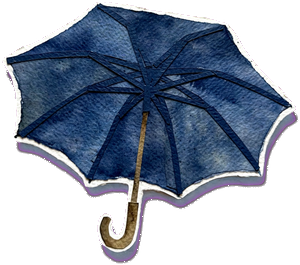
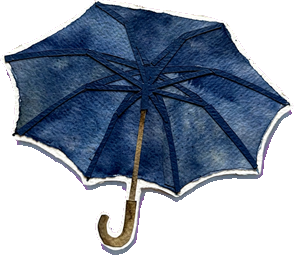
Ô cầm đúng tay, bỏ bóng tím; chọn mốc thời gian học, mỗi ngày giao đủ phần theo mốc; ghi đầu ra khoá học vào CLAUDE.md (#158)
- 6 hình ô: bỏ bóng đổ tím / xám ngoài viền giấy (ô đỏ có cả mảng bóng dưới móc); điểm cầm trên cán của từng hình (G.UMB_GRIP)
- Ô đặt điểm cầm đúng bàn tay của khung hình (G.HANDS): nhìn trước / ngang thì vác qua vai, tán sau đầu (thấy rõ mặt);
  nhìn sau lưng thì tán che trên đầu, móc trong tay. Bản 3D: ô là tấm giấy song song với tấm nhân vật nên luôn đúng trước / sau
- Mốc thời gian 3 / 6 / 9 / 12 / 18 / 24 tháng (mỗi mốc ghi số phút cần mỗi ngày, mốc quá gấp bị khoá); G.setPlan, G.planToday:
  phút hôm nay = giờ còn lại tới mục tiêu ÷ ngày học còn lại (chậm thì tăng, nhanh thì giảm); vòng Hôm nay và thanh trên theo mốc
- Sảnh: thẻ "Mục tiêu và mốc thời gian" thay thanh kéo phút; bảng Hôm nay có dòng tiến độ theo mốc
- CLAUDE.md: đầu ra (nói, đọc hiểu, nghe trôi chảy), tiến độ theo mốc, quy tắc làm việc; service worker v107

Claude-Session: https://claude.ai/code/session_01AHzGepJt93aQaJT6t7Vsc8

Changed region(s): [[0.0, 0.0, 1.0, 1.0], [0.1224, 0.2196, 0.2449, 0.302], [0.0918, 0.2196, 0.1224, 0.2471]]

diff --git a/game/js/placement.js b/game/js/placement.js
@@ -267,32 +267,70 @@ var G = window.G || (window.G = {});
   ];
   G.GOALS_EN = GOALS;
   G.goalOf = function () { var m = G.S.mucTieu; for (var i = 0; i < GOALS.length; i++) if (m && GOALS[i].id === m.id) return GOALS[i]; return null; };
-  /* dòng dự kiến cho mục tiêu: "Đi làm cần Tầng 4 · B1 – B2. 30 phút/ngày: khoảng tháng 9/2027" */
-  G.goalLine = function (mins, dpw) {
-    var g = G.goalOf(); if (!g || !G.etaPlan || !G.ROADMAP_EN) return '';
-    var rows = G.etaPlan(mins, dpw), r = rows[g.step]; if (!r) return '';
-    var st = G.ROADMAP_EN[g.step];
-    if (r.cum <= 0) return g.icon + ' ' + g.name + ': bạn đã đủ trình độ (' + st.name + '). Học tiếp để nói tự nhiên hơn!';
-    return g.icon + ' ' + g.name + ' cần ' + st.name + ' (' + st.cefr + '). Học ' + mins + ' phút/ngày, ' + dpw + ' ngày/tuần: dự kiến đạt khoảng ' + r.month + ' (sau ' + r.span + ').';
+  /* ---------- mốc thời gian: người học chọn muốn đạt mục tiêu trong bao lâu; app tính mỗi ngày cần học bao nhiêu
+     (giờ còn lại tới mục tiêu ÷ số ngày học còn lại, tính lại mỗi ngày: học chậm thì phần mỗi ngày tăng, nhanh thì giảm) ---------- */
+  var MOCS = [3, 6, 9, 12, 18, 24];
+  function pad2(n) { return (n < 10 ? '0' : '') + n; }
+  function fmtDay(s) { var a = s.split('-'); return +a[2] + '/' + +a[1] + '/' + a[0]; }
+  function stepOf() { var g = G.goalOf(); return g ? g.step : 4; }   // chưa chọn mục tiêu: tới Tốt nghiệp ConnectLife (nói, đọc hiểu, nghe trôi chảy)
+  function hoursTo(step, dpw) { if (!G.etaPlan) return 0; var r = G.etaPlan(60, dpw)[step]; return r ? r.cum : 0; }
+  function ceil5(x) { return Math.ceil(x / 5) * 5; }
+  G.planNeed = function (months, step, dpw) { var h = hoursTo(step, dpw); return h <= 0 ? 0 : ceil5(h * 60 / (months * 30.4 * dpw / 7)); };
+  G.setPlan = function (months) {
+    var cd = G.S.caiDat = G.S.caiDat || {}, dpw = cd.ngayTuan || 6, step = stepOf(), need = Math.max(10, G.planNeed(months, step, dpw));
+    var e = G.vnParts(Date.now() + months * 30.4 * 86400000);
+    G.S.mocHoc = { thang: months, buoc: step, tu: G.vnDay(), den: e.y + '-' + pad2(e.m) + '-' + pad2(e.d), phut0: need };
+    cd.phutNgay = need; ptAt = 0; G.save(); if (G.updateHud) G.updateHud();
   };
-  /* thẻ chọn mục tiêu + phút mỗi ngày; số phút cũng là mục tiêu mỗi ngày trên vòng ở thanh trên */
+  /* tiến độ hôm nay theo mốc: { phut cần học hôm nay, den, ngay còn lại, xong, het (quá mốc), cham, nhanh } */
+  var ptCache = null, ptAt = 0;
+  G.planToday = function () {
+    var m = G.S.mocHoc; if (!m || !G.etaPlan) return null;
+    if (ptCache && Date.now() - ptAt < 60000) return ptCache;
+    var cd = G.S.caiDat || {}, dpw = cd.ngayTuan || 6, end = Date.parse(m.den + 'T23:59:59+07:00');
+    var daysLeft = (end - Date.now()) / 86400000, h = hoursTo(m.buoc, dpw);
+    var o = { thang: m.thang, den: m.den, ngay: Math.max(0, Math.ceil(daysLeft)), xong: h <= 0, het: daysLeft <= 0, phut0: m.phut0 };
+    o.phut = o.xong || o.het ? (cd.phutNgay || m.phut0) : Math.min(240, Math.max(10, ceil5(h * 60 / Math.max(1, daysLeft * dpw / 7))));
+    o.cham = !o.xong && !o.het && o.phut > m.phut0 * 1.1; o.nhanh = !o.xong && !o.het && o.phut < m.phut0 * 0.9;
+    ptCache = o; ptAt = Date.now(); return o;
+  };
+  /* một dòng nói rõ kế hoạch: đạt gì, trước ngày nào, mỗi ngày bao lâu */
+  G.planLine = function () {
+    var m = G.S.mocHoc, g = G.goalOf(), cd = G.S.caiDat || {}, dpw = cd.ngayTuan || 6;
+    if (!m) return 'Chọn mốc thời gian: app tính mỗi ngày cần học bao nhiêu và giao đủ phần đó mỗi ngày.';
+    var pt = G.planToday(), st = G.ROADMAP_EN[m.buoc] || {}, who = g ? g.icon + ' ' + g.name + ': ' : '🎯 ';
+    if (pt.xong) return '🎉 Bạn đã đạt ' + st.name + '! Chọn mục tiêu cao hơn để học tiếp.';
+    if (pt.het) return 'Mốc ' + fmtDay(m.den) + ' đã qua mà chưa đạt ' + st.name + '. Chọn mốc mới, app tính lại phần học mỗi ngày.';
+    return who + 'đạt ' + st.name + ' (' + st.cefr + ') trước ' + fmtDay(m.den) + ' (mốc ' + m.thang + ' tháng). Mỗi ngày học khoảng ' + pt.phut + ' phút, ' + dpw + ' ngày/tuần.' +
+      (pt.cham ? ' Đang chậm so với mốc nên phần học mỗi ngày đã tăng để kịp.' : pt.nhanh ? ' Bạn đang nhanh hơn tiến độ 👍' : '');
+  };
+  G.goalLine = function () { return G.planLine(); };
+  /* thẻ chọn mục tiêu + mốc thời gian (kết quả đầu vào, Sảnh); onChange khi đổi */
   G.goalCard = function (onChange) {
-    var cd = G.S.caiDat = G.S.caiDat || {}, mins = cd.phutNgay || 30, dpw = cd.ngayTuan || 6;
+    var cd = G.S.caiDat = G.S.caiDat || {};
     var line = G.el('div.gl-line'), gRow = G.el('div.gl-chips'), mRow = G.el('div.gl-chips');
     function draw() {
-      var g = G.goalOf();
+      var g = G.goalOf(), m = G.S.mocHoc, step = stepOf(), dpw = cd.ngayTuan || 6;
       gRow.innerHTML = ''; mRow.innerHTML = '';
       GOALS.forEach(function (x) {
-        gRow.appendChild(G.el('button.gl-chip' + (g && g.id === x.id ? '.on' : ''), { onclick: function () { G.S.mucTieu = { id: x.id, luc: G.vnNow() }; G.save(); draw(); if (onChange) onChange(); } }, x.icon + ' ' + x.name));
+        gRow.appendChild(G.el('button.gl-chip' + (g && g.id === x.id ? '.on' : ''), { onclick: function () {
+          G.S.mucTieu = { id: x.id, luc: G.vnNow() }; if (G.S.mocHoc) G.setPlan(G.S.mocHoc.thang); G.save(); draw(); if (onChange) onChange();
+        } }, x.icon + ' ' + x.name));
       });
-      [10, 15, 20, 30, 45, 60, 90].forEach(function (m) {
-        mRow.appendChild(G.el('button.gl-chip' + (m === mins ? '.on' : ''), { onclick: function () { mins = m; cd.phutNgay = m; cd.ngayTuan = dpw; G.save(); if (G.updateHud) G.updateHud(); draw(); if (onChange) onChange(); } }, m + ' phút'));
+      MOCS.forEach(function (mo) {
+        var need = G.planNeed(mo, step, dpw), hard = need > 240;
+        mRow.appendChild(G.el('button.gl-chip.gl-moc' + (m && m.thang === mo ? '.on' : '') + (hard ? '.hard' : ''), { onclick: function () {
+          if (hard) { G.toast('Mốc ' + mo + ' tháng cần hơn 4 giờ mỗi ngày, quá gấp. Chọn mốc dài hơn nhé.'); return; }
+          G.setPlan(mo); draw(); if (onChange) onChange();
+        } }, G.el('b', mo + ' tháng'), G.el('span', need <= 0 ? 'đã đạt' : hard ? 'quá gấp' : '~' + Math.max(10, need) + ' phút/ngày')));
       });
-      line.textContent = g ? G.goalLine(mins, dpw) : 'Chọn mục tiêu để xem bao lâu nữa bạn đạt được.';
+      line.textContent = G.planLine();
     }
     draw();
-    return G.el('div.gl-card', G.el('b.gl-h', '🎯 Bạn học tiếng Anh để làm gì?'), gRow,
-      G.el('b.gl-h', '⏱ Mỗi ngày học được bao lâu?'), mRow, line);
+    var el = G.el('div.gl-card', G.el('b.gl-h', '🎯 Bạn học tiếng Anh để làm gì?'), gRow,
+      G.el('b.gl-h', '📅 Muốn đạt mục tiêu trong bao lâu?'), mRow, line);
+    el.redraw = draw;
+    return el;
   };
 
   /* ---------- kết quả ---------- */

diff --git a/game/js/lobby.js b/game/js/lobby.js
@@ -43,32 +43,29 @@ var G = window.G || (window.G = {});
     return remainHours().map(function (r) { var d = r.cum / perWeek * 7; return { name: r.st.name, left: r.left, cum: r.cum, month: monthOf(d), span: span(d) }; });
   };
   function planCard() {
-    var cd = G.S.caiDat = G.S.caiDat || {}, mins = cd.phutNgay || 40, dpw = cd.ngayTuan || 6;
-    var out = G.el('div.plan-out'), minsL = G.el('b'), dpwL = G.el('b');
+    var cd = G.S.caiDat = G.S.caiDat || {}, dpw = cd.ngayTuan || 6;
+    function mins() { var pt = G.planToday && G.planToday(); return pt ? pt.phut : (cd.phutNgay || 40); }
+    var out = G.el('div.plan-out'), dpwL = G.el('b'), gc = G.goalCard ? G.goalCard(function () { draw(); }) : null;
     function draw() {
-      minsL.textContent = mins + ' phút / ngày'; dpwL.textContent = dpw + ' ngày / tuần';
-      var perWeek = mins * dpw / 60, rows = remainHours(), last = rows[rows.length - 1];
+      var mn = mins();
+      dpwL.textContent = dpw + ' ngày / tuần';
+      var perWeek = mn * dpw / 60, rows = remainHours(), last = rows[rows.length - 1];
       rows.forEach(function (r) {
         var el = document.getElementById('eta-' + (r.st.final ? 'final' : r.st.floor)); if (!el) return;
         el.textContent = r.left <= 0 ? '' : '⏱ Dự kiến ' + monthOf(r.cum / perWeek * 7) + ' (còn khoảng ' + Math.round(r.left) + ' giờ)';
       });
       var days = last.cum / perWeek * 7;
       out.innerHTML = '';
-      out.appendChild(G.el('div.plan-big', G.el('span', '🎓 Tốt nghiệp ConnectLife khoảng'), G.el('b', monthOf(days)), G.el('span.small', 'sau khoảng ' + span(days) + ' · còn ' + Math.round(last.cum) + ' giờ học · ' + (Math.round(perWeek * 10) / 10 + '').replace('.', ',') + ' giờ mỗi tuần')));
-      if (G.goalOf && G.goalOf()) out.appendChild(G.el('div.plan-goal', G.goalLine(mins, dpw)));
-      var faster = Math.min(180, mins + 20);
-      if (mins < 180) out.appendChild(G.el('div.small.faint', 'Nếu học ' + faster + ' phút mỗi ngày: khoảng ' + span(last.cum / (faster * dpw / 60) * 7) + '.'));
-    }
-    function slider(min, max, step, val, on) {
-      return G.el('input.plan-range', { type: 'range', min: min, max: max, step: step, value: val, oninput: function (e) { on(+e.target.value); draw(); },
-        onchange: function () { cd.phutNgay = mins; cd.ngayTuan = dpw; G.save(); if (G.updateHud) G.updateHud(); } });
+      out.appendChild(G.el('div.plan-big', G.el('span', '🎓 Tốt nghiệp ConnectLife khoảng'), G.el('b', monthOf(days)), G.el('span.small', 'học ' + mn + ' phút/ngày · còn ' + Math.round(last.cum) + ' giờ học · ' + (Math.round(perWeek * 10) / 10 + '').replace('.', ',') + ' giờ / tuần')));
     }
     var card = G.el('div.plan',
-      G.el('b.plan-h', '⏱ Bạn học bao lâu mỗi ngày?'),
-      G.el('div.plan-row', G.el('span', 'Thời gian'), slider(10, 180, 5, mins, function (v) { mins = v; }), minsL),
-      G.el('div.plan-row', G.el('span', 'Số ngày'), slider(3, 7, 1, dpw, function (v) { dpw = v; }), dpwL),
+      G.el('b.plan-h', '📅 Mục tiêu và mốc thời gian'),
+      gc,
+      G.el('div.plan-row', G.el('span', 'Số ngày'), G.el('input.plan-range', { type: 'range', min: 3, max: 7, step: 1, value: dpw,
+        oninput: function (e) { dpw = +e.target.value; dpwL.textContent = dpw + ' ngày / tuần'; },
+        onchange: function () { cd.ngayTuan = dpw; if (G.S.mocHoc) G.setPlan(G.S.mocHoc.thang); else G.save(); if (gc) gc.redraw(); draw(); } }), dpwL),
       out,
-      G.el('div.small.faint', 'Ước chừng theo số giờ cần để đạt từng cấp (gồm học bài, ôn tập và luyện nói ngoài phố), tính từ chỗ bạn đang học. Số phút bạn chọn cũng là mục tiêu mỗi ngày trên vòng tiến độ. Học đều mỗi ngày hiệu quả hơn học dồn.'));
+      G.el('div.small.faint', 'Mỗi ngày app giao đủ phần cần học để kịp mốc bạn chọn (vòng Hôm nay ở góc trên). Học chậm thì phần mỗi ngày tự tăng, học nhanh thì giảm. Tính theo số giờ cần cho từng cấp (học bài, ôn tập, luyện nói ngoài phố), từ chỗ bạn đang học.'));
     draw(); setTimeout(draw, 0);   // vẽ ngay phần tổng; dòng ước tính từng tầng điền sau khi danh sách tầng đã có
     return card;
   }

diff --git a/game/js/world3d.js b/game/js/world3d.js
@@ -47,6 +47,7 @@ var G = window.G || (window.G = {});
   }
   function ready(t) { return !!(t && t.image && t.image.width); }
   /* tấm giấy: sáng tối theo nắng nhưng luôn giữ một nền sáng (emissive) để hình không bị tối khi nắng chiếu xiên */
+  var PLANE_C = null;   // mặt phẳng 1×1 tâm ở giữa (ô cầm tay)
   function mat(n) { return MATS[n] || (MATS[n] = new THREE.MeshLambertMaterial({ map: tex(n), emissive: 0x5a5a5a, emissiveMap: tex(n), alphaTest: 0.5, side: THREE.DoubleSide })); }
   function dmat(n) { return DMATS[n] || (DMATS[n] = new THREE.MeshDepthMaterial({ depthPacking: THREE.RGBADepthPacking, map: tex(n), alphaTest: 0.5 })); }
   function setMap(m, n) {   // đổi hình của một tấm (cả lớp sáng nền), chỉ khi hình mới đã tải xong
@@ -112,7 +113,7 @@ var G = window.G || (window.G = {});
   }
   function drawWalker(w) {
     var fr = frameOf(w), m = w.g.userData.mesh;
-    setMap(m, fr.n);
+    setMap(m, fr.n); w.fr = fr;
     w.g.scale.x = (fr.flip ? -1 : 1) * w.S * U;
     w.g.position.set(w.x, fr.lift * w.S * U, w.z); w.blob.position.set(w.x, 0.012, w.z);
     if (w.um) placeUmbrella(w);
@@ -143,14 +144,31 @@ var G = window.G || (window.G = {});
     }));
   }
   function addUmbrella(w, i) {
-    var sp = new THREE.Sprite(new THREE.SpriteMaterial({ map: umbrellaTex(i), transparent: true, alphaTest: 0.3 }));
-    var k = w.S * U * 0.82; sp.scale.set(k, k, 1); sp.visible = false; SC.add(sp); w.um = sp;
+    if (!PLANE_C) PLANE_C = new THREE.PlaneGeometry(1, 1);
+    // tấm giấy song song với tấm nhân vật (cùng độ nghiêng), nằm ngay sau (nhìn trước / ngang) hoặc ngay trước (nhìn sau lưng)
+    var t = umbrellaTex(i), m = new THREE.Mesh(PLANE_C, new THREE.MeshLambertMaterial({ map: t, emissive: 0x5a5a5a, emissiveMap: t, alphaTest: 0.4, side: THREE.DoubleSide }));
+    var g = new THREE.Group(); g.add(m); g.rotation.x = -LEAN; g.visible = false; SC.add(g);
+    w.um = g; w.umMesh = m; w.umName = 'umbrella_' + (i % 6 + 1) + '.png';
   }
+  /* ô trong tay: điểm cầm trên cán (G.UMB_GRIP) đặt vào bàn tay của khung hình đang vẽ (G.HANDS), cán ngả qua vai, tán nghiêng về phía đầu.
+     Nhìn trước / ngang: móc khuất sau người nên nâng cán lên vai cho tán che trên đầu; nhìn sau lưng: móc đúng trong bàn tay. */
   function placeUmbrella(w) {
-    var on = wxNow.rain > 0.25 && w.g.visible, h = w.S * U * 0.5, k = w.S * U * 0.95;
+    var on = wxNow.rain > 0.25 && w.g.visible;
     w.um.visible = on; if (!on) return;
-    var sway = w.moving ? Math.sin(w.t * 14) * 0.03 : 0;
-    w.um.position.set(w.x + sway + (w.dir === 'left' ? -0.06 : w.dir === 'right' ? 0.06 : 0.1), h * Math.cos(LEAN) + k * 0.5, w.z - h * Math.sin(LEAN) + 0.02);
+    var fr = w.fr, d = w.dir === 'right' ? 'left' : w.dir, n, back = w.dir === 'up';
+    if (fr) n = fr.n.replace(/_w[12]\.png$/, '.png');
+    else if (w.base === 'custom' && G.S.avatar) n = 'body_' + G.S.avatar.ao + '_' + d + '.png';
+    else n = (w.base || 'kai') + '_' + d + '.png';
+    var hd = G.HANDS && G.HANDS[n], hx = hd ? hd[0] / 100 : 0.7, hy = hd ? hd[1] / 100 : 0.72;
+    if (fr ? fr.flip : w.dir === 'right') hx = 1 - hx;
+    var S = w.S * U, lift = fr ? fr.lift * S : 0, sway = w.moving ? Math.sin(w.t * 14) * 0.02 : 0;
+    var lx = (hx - 0.5) * S + sway, ly = ((w.foot || 0.957) - hy) * S + lift + (back ? 0 : S * 0.2);
+    var k = S * 0.9, gp = (G.UMB_GRIP && G.UMB_GRIP[w.umName]) || [0.5, 0.86];
+    var th = (lx > 0.01 ? 1 : lx < -0.01 ? -1 : 0) * 0.32;
+    var ox = (0.5 - gp[0]) * k, oy = (gp[1] - 0.5) * k, rx = ox * Math.cos(th) - oy * Math.sin(th), ry = ox * Math.sin(th) + oy * Math.cos(th);
+    w.um.position.set(w.x, 0, w.z);
+    w.umMesh.position.set(lx + rx, ly + ry, back ? 0.035 : -0.035);
+    w.umMesh.rotation.z = th; w.umMesh.scale.set(k, k, 1);
   }
 
   /* ---------- dựng thành phố (một lần) ---------- */

diff --git a/game/js/daily.js b/game/js/daily.js
@@ -5,8 +5,13 @@
 var G = window.G || (window.G = {});
 
 (function () {
-  var GOAL_MIN = 120;   // mặc định; người học chọn ở thanh kéo Lộ trình (G.S.caiDat.phutNgay)
-  function goalMin() { return (G.S && G.S.caiDat && G.S.caiDat.phutNgay) || GOAL_MIN; }
+  var GOAL_MIN = 120;   // mặc định khi chưa chọn mốc thời gian (Sảnh → Mục tiêu và mốc thời gian)
+  /* phút cần học hôm nay: theo mốc thời gian người học chọn (G.planToday), chưa chọn mốc thì theo số phút đã đặt */
+  function goalMin() {
+    var pt = G.planToday && G.planToday();
+    if (pt && !pt.xong && !pt.het) return pt.phut;
+    return (G.S && G.S.caiDat && G.S.caiDat.phutNgay) || GOAL_MIN;
+  }
   var TASKS = [
     { id: 'bai', icon: '🏫', name: 'Học bài ở trường', hint: 'Học, luyện hoặc kiểm tra một phòng', min: 45 },
     { id: 'doc', icon: '📖', name: 'Đọc 1 chương truyện', hint: 'Về nhà, mở góc đọc truyện', min: 25 },
@@ -78,6 +83,8 @@ var G = window.G || (window.G = {});
     ring.style.setProperty('--p', p.pct);
     body.appendChild(G.el('div.td-head', ring,
       G.el('div', G.el('b', p.mins + ' / ' + p.goal + ' phút'), G.el('div.small.faint', p.done + '/' + p.all + ' việc · chuỗi ' + G.S.chuoi.hienTai + ' ngày'))));
+    if (G.planLine) body.appendChild(G.el('div.td-plan', G.el('b', '📅 Tiến độ theo mốc'), G.el('div.small', G.planLine()),
+      G.S.mocHoc ? null : G.el('button.btn.sm', { onclick: function () { G.goLobby && G.goLobby(); } }, 'Chọn mốc ở Sảnh')));
     if (G.rankCard) body.appendChild(G.rankCard());
     body.appendChild(G.el('div.td-list', TASKS.map(function (t) {
       var ok = !!d.viec[t.id];
@@ -113,7 +120,7 @@ var G = window.G || (window.G = {});
     }
     drawMic();
     body.appendChild(micBox);
-    body.appendChild(G.el('p.small.faint', 'Làm đủ 4 việc và học đủ 2 giờ là tròn vòng hôm nay. Thanh 📍 Việc tiếp theo luôn chỉ chỗ cần đến.'));
+    body.appendChild(G.el('p.small.faint', 'Làm đủ 4 việc và học đủ ' + p.goal + ' phút là tròn vòng hôm nay, đúng tiến độ theo mốc. Thanh 📍 Việc tiếp theo luôn chỉ chỗ cần đến.'));
   };
 
   function weekLine() {

diff --git a/game/js/engine.js b/game/js/engine.js
@@ -1053,7 +1053,7 @@ var G = window.G || (window.G = {});
     var cx = X + S / 2;
     // nhìn trước / sau: cán dựng sát cạnh đầu, hơi ngả ra ngoài; nhìn ngang: ngả ra sau lưng như tựa lên vai
     var ux = side ? cx + (flip ? -1 : 1) * S * 0.12 : hx + (hx >= cx ? 1 : -1) * S * 0.04;
-    return { hx: hx, hy: hy, ux: ux, uy: top - S * 0.025, S: S, col: h[2] };
+    return { hx: hx, hy: hy, ux: ux, uy: top - S * 0.025, S: S, col: h[2], back: /_up(_w\d)?\.png$/.test(img) };
   }
   /* ô của nhân vật ghép (thân body_<áo>_<hướng>.png): x, footY, h như G.drawAvatar; phase: nhịp bước (null = đứng) */
   function avatarHold(av, x, footY, h, dir, phase) {
@@ -1063,9 +1063,12 @@ var G = window.G || (window.G = {});
   function umbrella(u, ci, sway, part, fist) {
     var S = u.S, R = S * 0.38, lw = Math.max(2, S * 0.024), un = 'umbrella_' + (ci % 6 + 1) + '.png';
     if (G.ASSET_REV && G.ASSET_REV[un]) {   // ô vẽ giấy (đặt hình): cán ô ở bàn tay, tán che trên đầu
-      if (part !== 'top' || !G.asset(un).ok) return;
+      // vác ô qua vai: nhìn trước / nhìn ngang thì tán nằm sau đầu (vẽ trước thân), nhìn sau lưng thì tán ở phía người xem (vẽ sau thân)
+      if ((part === 'top') !== !!u.back || !G.asset(un).ok) return;
       var im = G.asset(un).img, ih = S * 0.92, iw = ih * im.width / im.height, ag = Math.atan2(u.ux - u.hx, -(u.uy - u.hy)) * 0.5 + (sway || 0);
-      ctx.save(); ctx.translate(u.hx, u.hy + S * 0.04); ctx.rotate(ag); ctx.drawImage(im, -iw * 0.55, -ih, iw, ih); ctx.restore();
+      var gp = (G.UMB_GRIP && G.UMB_GRIP[un]) || [0.5, 0.86];   // điểm cầm trên cán (ngay trên móc) đặt đúng vào bàn tay
+      // nhìn trước / ngang: móc khuất sau người, tay như nâng cán lên vai (tán cao hơn, che trên đầu); nhìn sau lưng: móc đúng trong bàn tay
+      ctx.save(); ctx.translate(u.hx, u.hy - (u.back ? 0 : S * 0.2)); ctx.rotate(ag); ctx.drawImage(im, -iw * gp[0], -ih * gp[1], iw, ih); ctx.restore();
       return;
     }
     var vx = u.ux - u.hx, vy = u.uy - u.hy, L = Math.sqrt(vx * vx + vy * vy), ang = Math.atan2(vx, -vy) + (sway || 0);

diff --git a/game/sw.js b/game/sw.js
@@ -1,7 +1,7 @@
 /* Chạy offline: giữ toàn bộ code game, dữ liệu và mọi hình trong assets/.
    Hình tải qua assets/<tên>?v=<mã nội dung> (data/asset_rev.js): mỗi lần cập nhật app chỉ tải hình mới hoặc hình đã thay,
    hình không đổi chép lại từ bản trong máy. Tệp giọng đọc được giữ lại khi đã nghe một lần. */
-var VERSION = 'thegioi-v106';
+var VERSION = 'thegioi-v107';
 // giọng đọc: tên tệp đặt theo nội dung câu nên không bao giờ đổi, giữ riêng một kho để cập nhật app không phải tải lại
 var AUDIO = 'connectlife-audio-v2';
 var CORE = [

diff --git a/game/data/asset_rev.js b/game/data/asset_rev.js
@@ -412,12 +412,12 @@ G.ASSET_REV = {"badge_1.webp":"4cd4eec0",
 "student_tom_hand.png":"062c31b6",
 "student_tom_sit.png":"dfb354fb",
 "sun_paper.png":"e1857d6c",
-"umbrella_1.png":"cae53633",
-"umbrella_2.png":"31532d16",
-"umbrella_3.png":"e65f5c5e",
-"umbrella_4.png":"d644a3cd",
-"umbrella_5.png":"755902d2",
-"umbrella_6.png":"cc172dd6",
+"umbrella_1.png":"ea551fc5",
+"umbrella_2.png":"50b49f75",
+"umbrella_3.png":"76b1e495",
+"umbrella_4.png":"7b603b46",
+"umbrella_5.png":"44ade338",
+"umbrella_6.png":"66ed550e",
 "vehicle_bus.png":"97defac2",
 "vehicle_metro.png":"8578ec08",
 "vehicle_metro_open.png":"4bc40774",

diff --git a/game/css/game.css b/game/css/game.css
@@ -831,3 +831,7 @@ body { background: #f4e9dc url(../assets/paper_tile.webp) repeat; background-siz
   .pr-card .mk-mic-img { width: 52px; height: 52px; }
   .pr-two .opt { min-height: 58px; }
 }
+.gl-moc { display: flex; flex-direction: column; align-items: center; gap: 0; border-radius: 14px; padding: 6px 12px; line-height: 1.2; }
+.gl-moc span { font-size: 12px; font-weight: 600; opacity: .8; }
+.gl-moc.hard { opacity: .45; }
+.td-plan { background: #fff6e6; border: 1.5px solid #f1dfb8; border-radius: 14px; padding: 10px 12px; display: flex; flex-direction: column; gap: 4px; margin: 8px 0; }

diff --git a/game/data/hands.js b/game/data/hands.js
@@ -62,3 +62,5 @@ G.HANDS = {
     'walk_carlos_down.png': [60, 62, '#f6dcc8', 4.9],
     'walk_nora_down.png': [62, 64, '#f6dcc8', 4.9]
 };
+/* điểm cầm trên cán của từng hình ô (tỉ lệ x, y trong hình, ngay trên móc): đặt điểm này vào bàn tay */
+G.UMB_GRIP = {"umbrella_1.png": [0.618, 0.854], "umbrella_2.png": [0.5, 0.85], "umbrella_3.png": [0.567, 0.856], "umbrella_4.png": [0.43, 0.833], "umbrella_5.png": [0.373, 0.848], "umbrella_6.png": [0.44, 0.839]};

diff --git a/CLAUDE.md b/CLAUDE.md
@@ -1,0 +1,22 @@
+# ATLAS-Hoc · ConnectLife
+
+Game học ngoại ngữ ConnectLife (thư mục `game/`) và app ATLAS gốc (thư mục gốc). Người phụ trách: anh Han. Trả lời bằng tiếng Việt, ngắn gọn, thực tế.
+
+## Đầu ra của khoá học (luôn bám theo)
+
+Học viên học xong phải **nói được, đọc hiểu và nghe trôi chảy tiếng Anh**. Mọi tính năng, bài học, trò chơi phải phục vụ ba kỹ năng này; cái gì không giúp nói, đọc hiểu hoặc nghe thì không ưu tiên.
+
+## Tiến độ học
+
+- Người học tự chọn **mốc thời gian** (3 / 6 / 9 / 12 / 18 / 24 tháng) để đạt mục tiêu (Sảnh → Mục tiêu và mốc thời gian, hoặc màn kết quả đầu vào).
+- App tính mỗi ngày cần học bao nhiêu (giờ còn lại tới mục tiêu ÷ số ngày học còn lại) và **giao đủ phần đó mỗi ngày** (vòng Hôm nay). Học chậm thì phần mỗi ngày tự tăng, nhanh thì giảm. Code: `G.setPlan`, `G.planToday` (game/js/placement.js), `goalMin` (game/js/daily.js).
+
+## Quy tắc làm việc
+
+- **Không vẽ hình bằng code.** Mọi hình là hình đặt (anh Han đặt qua ChatGPT): viết đơn đặt hàng trong `game/ASSET_ORDERS.md`, nhận hình thì cắt nền rồi gắn vào game.
+- Âm thanh: ghi âm thật từ nguồn miễn phí (CC0, phạm vi công cộng, CC BY) hoặc anh Han làm bằng Meta AI; ghi nguồn ở `game/sfx/CREDITS.md`. Giọng đọc: Kokoro (af_heart, am_michael).
+- Code game là **ES5 thuần** (không arrow function, let/const, template literal, optional chaining) để chạy trên Safari iOS. Kiểm tra bằng acorn `ecmaVersion: 5`.
+- Dữ liệu lưu Supabase; chỉ dùng khoá anon / publishable, không bao giờ dùng khoá service_role. Giờ luôn theo giờ Việt Nam (UTC+7). Không làm mất tiến độ học.
+- App dùng trên iPad / iPhone (mở từ màn hình chính, điện thoại nằm ngang): kiểm tra cả hai cỡ màn hình.
+- Đổi hình trong `game/assets/`: chạy `node tools/asset-rev.mjs` (từ thư mục gốc). Đổi code / dữ liệu game: tăng `VERSION` trong `game/sw.js`.
+- Thêm câu tiếng Anh có giọng đọc: `node tools/build-audio-list.mjs` rồi tạo giọng còn thiếu, cập nhật `data/audio.json`.
